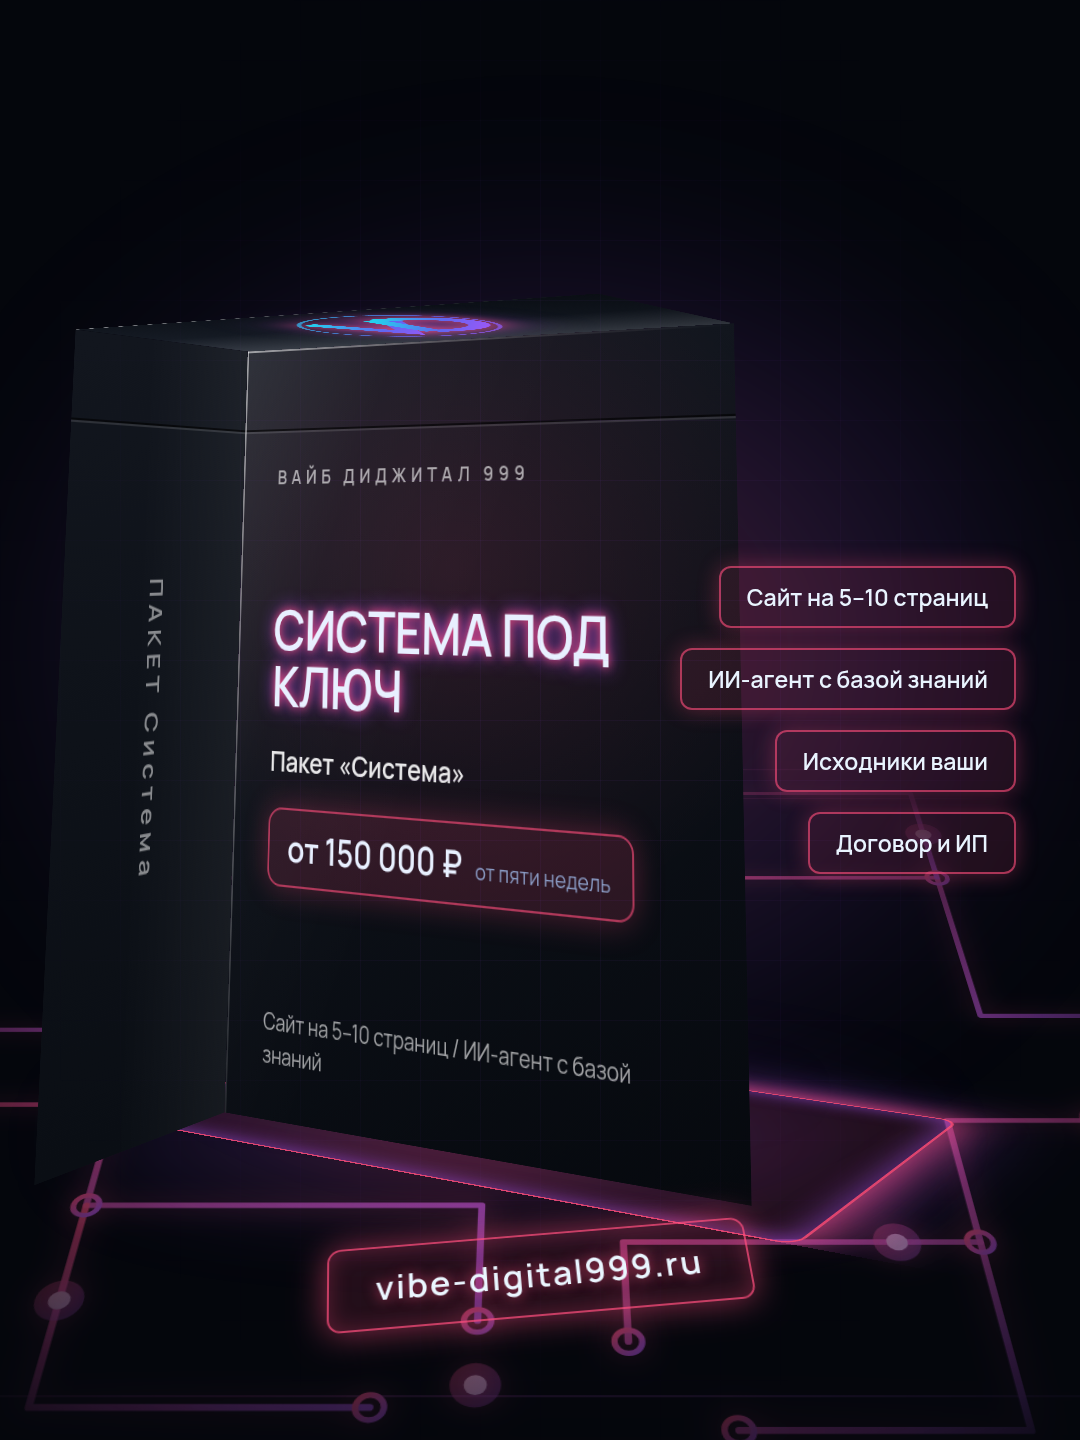
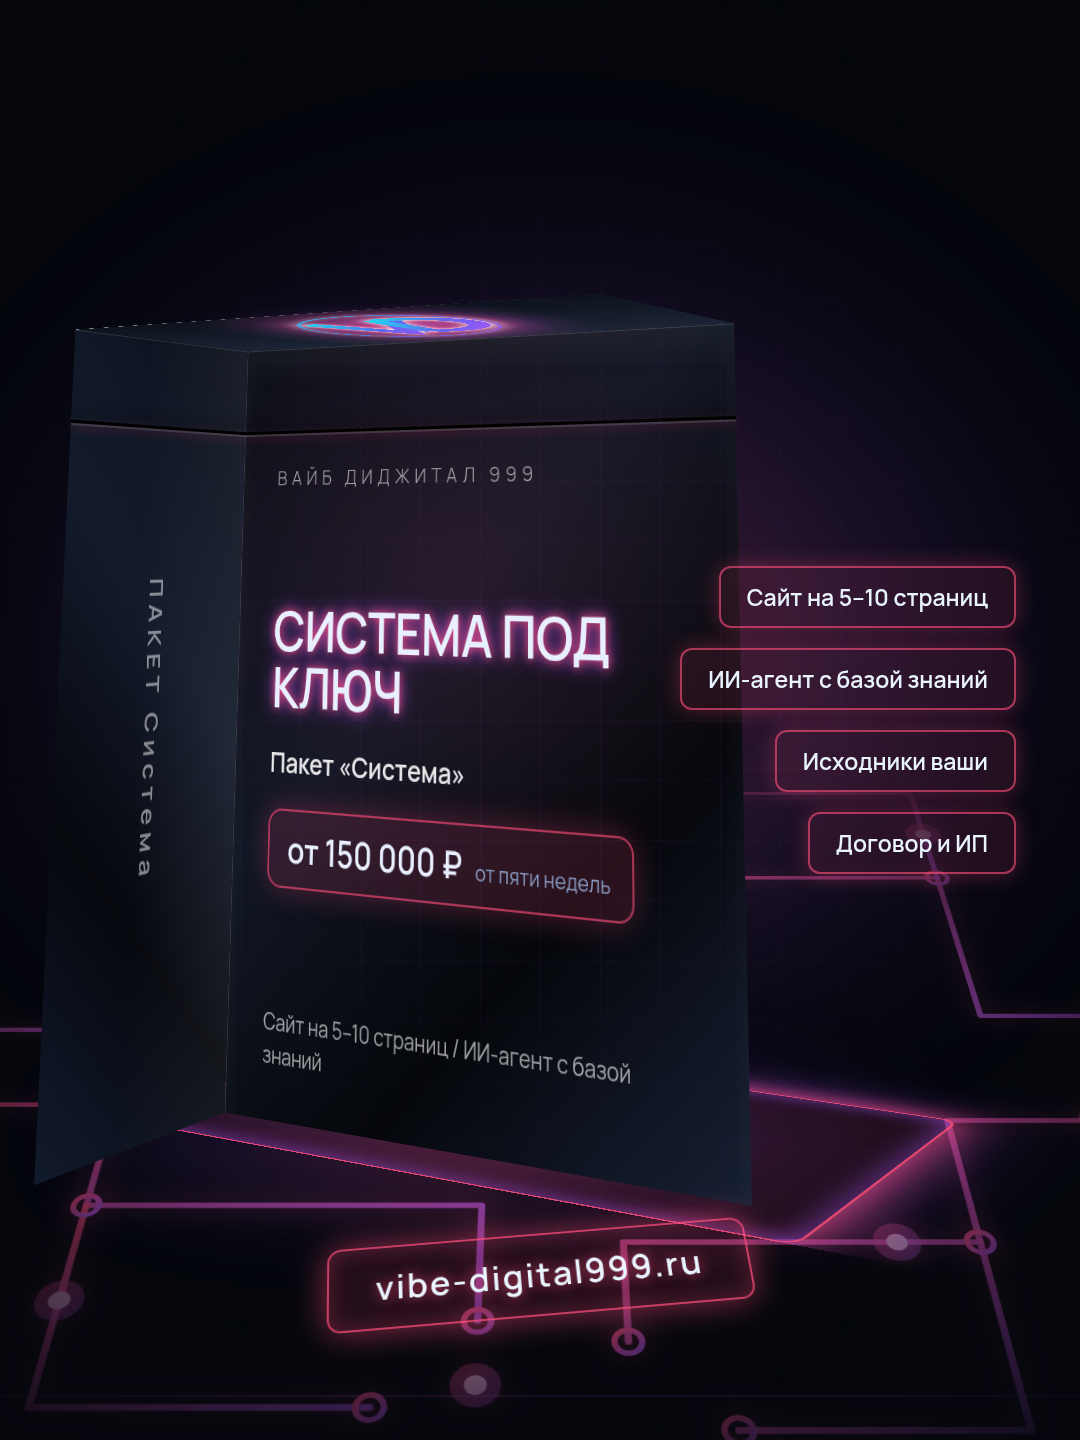
Дорогой глянец: материал, вдавленный шов, светлая крышка
Градиент в четыре остановки, шов прорезью с отсветом в пазу, крышка
светлее граней с пятном вокруг логотипа, надпись студии гравировкой.

Спор про translateZ закрыт снимками: без него крышка выступает
за край коробки козырьком, видно только на вырезе.

Claude-Session: https://claude.ai/code/session_01ELgwZhZjs3zH5Yv9y5TfEh

diff --git a/marketing/paket-korobka.js b/marketing/paket-korobka.js
@@ -238,8 +238,11 @@ ${fontCss}
     transform-style:preserve-3d;
     transform:rotateX(12deg) rotateY(-30deg)}
 
+  /* ГЛЯНЕЦ. Четыре остановки вместо двух: тёмное — светлое — тёмное —
+     светлое. Так пластик ловит отражение неоновой подсветки пола,
+     а не выглядит равномерной серой заливкой. */
   .gran{position:absolute;
-    background:linear-gradient(155deg,#161A22 0%,#0C1017 55%,#070A10 100%)}
+    background:linear-gradient(135deg,#090D16 0%,#111724 40%,#05070B 70%,#161F33 100%)}
 
   /* ШОВ ОТКИДНОГО КОЛПАКА. Тёмная прорезь и светлый блик под ней —
      так читается стык двух панелей. Рисуется фоновым градиентом,
@@ -256,31 +259,22 @@ ${fontCss}
     padding:calc(var(--shov) + 34px) 44px 44px;display:flex;flex-direction:column;
     /* Глянец: широкая мягкая полоса через грань. */
     background:
-      linear-gradient(180deg,
-        transparent 0 calc(var(--shov) - 2px),
-        rgba(0,0,0,.62) calc(var(--shov) - 2px) var(--shov),
-        rgba(255,255,255,.12) var(--shov) calc(var(--shov) + 2px),
-        transparent calc(var(--shov) + 2px)),
-      linear-gradient(112deg,
-        rgba(255,255,255,.10) 0%,
-        rgba(255,255,255,.02) 22%,
-        transparent 46%),
       radial-gradient(ellipse 110% 70% at 46% 30%,
-        color-mix(in srgb, var(--acc) 12%, transparent) 0%, transparent 62%),
-      linear-gradient(155deg,#171B24 0%,#0C1017 55%,#06090E 100%)}
+        color-mix(in srgb, var(--acc) 10%, transparent) 0%, transparent 62%),
+      linear-gradient(135deg,#090D16 0%,#111724 40%,#05070B 70%,#161F33 100%);
+    /* Блик по верхнему и левому ребру плюс мягкий свет сверху —
+       от этого грань читается монолитом, а не наклейкой. */
+    box-shadow:inset 1px 1px 0 rgba(255,255,255,.15),
+               inset 0 20px 30px rgba(255,255,255,.05)}
 
   /* Левый бок */
   .box-left{width:var(--glub);height:var(--vys);left:0;top:0;
     transform-origin:left center;
     transform:translateZ(var(--pol)) rotateY(-90deg);
     background:
-      linear-gradient(180deg,
-        transparent 0 calc(var(--shov) - 2px),
-        rgba(0,0,0,.62) calc(var(--shov) - 2px) var(--shov),
-        rgba(255,255,255,.12) var(--shov) calc(var(--shov) + 2px),
-        transparent calc(var(--shov) + 2px)),
-      linear-gradient(90deg, rgba(255,255,255,.05), transparent 60%),
-      linear-gradient(180deg,#12161E 0%,#0A0E14 100%);
+      linear-gradient(90deg, rgba(255,255,255,.06), transparent 60%),
+      linear-gradient(135deg,#0B101B 0%,#131B2B 40%,#06080E 70%,#111A2C 100%);
+    box-shadow:inset 0 1px 0 rgba(255,255,255,.12);
     display:flex;align-items:center;justify-content:center}
   /* Бок повёрнут наружу, к зрителю обращён изнанкой — надпись
      зеркалится. Гасится разворотом на 180° вокруг вертикальной оси.
@@ -294,9 +288,12 @@ ${fontCss}
   .box-top{width:var(--shir);height:var(--glub);left:0;top:0;
     transform-origin:top center;
     transform:translateZ(var(--pol)) rotateX(90deg);
+    /* Крышка ловит свет сверху, поэтому светлее остальных граней.
+       Радиальное пятно — свет от букв, падающий на пластик. */
     background:
-      linear-gradient(180deg, rgba(255,255,255,.12), transparent 55%),
-      linear-gradient(160deg,#1B212C 0%,#10151D 60%,#0A0E14 100%);
+      radial-gradient(ellipse 44% 120% at 50% 50%,
+        color-mix(in srgb, var(--acc) 26%, transparent) 0%, transparent 70%),
+      linear-gradient(180deg,#1C2536 0%,#0D121C 100%);
     display:flex;align-items:center;justify-content:center}
   /* Крышка после rotateX(90deg) обращена к зрителю обратной стороной
      плоскости: содержимое на ней переворачивается по вертикали, и «V»
@@ -306,8 +303,9 @@ ${fontCss}
   /* Крышку видно под острым углом, поэтому знак на ней сплющивается.
      Размер и свечение подняты, чтобы он читался в кадре. */
   .box-top svg{width:224px;height:224px;transform:rotateX(180deg);
-    filter:drop-shadow(0 0 18px color-mix(in srgb, var(--acc) 85%, transparent))
-           drop-shadow(0 0 34px color-mix(in srgb, var(--acc2) 60%, transparent))}
+    filter:drop-shadow(0 0 8px #fff)
+           drop-shadow(0 0 20px color-mix(in srgb, var(--acc) 95%, transparent))
+           drop-shadow(0 0 42px color-mix(in srgb, var(--acc2) 70%, transparent))}
 
   /* НЕОНОВЫЙ ПОДИУМ — это нижняя грань коробки, а не отдельный
      прямоугольник на полу. Так он лежит ровно под дном при любом
@@ -327,17 +325,19 @@ ${fontCss}
                0 0 120px color-mix(in srgb, var(--acc2) 55%, transparent),
                inset 0 0 44px color-mix(in srgb, var(--acc2) 60%, transparent)}
 
-  /* Блики на рёбрах: тонкие светлые полосы по стыкам граней.
-     Именно они читаются как глянцевый пластик. */
-  .box-front::before{content:'';position:absolute;left:0;top:0;
-    width:2px;height:100%;
-    background:linear-gradient(180deg,
-      rgba(255,255,255,.55), rgba(255,255,255,.10));
-    pointer-events:none}
-  .box-front::after{content:'';position:absolute;left:0;top:0;
-    width:100%;height:2px;
-    background:linear-gradient(90deg,
-      rgba(255,255,255,.55), rgba(255,255,255,.12) 60%, transparent);
+  /* ШОВ — вдавленная прорезь, а не белая черта. Три слоя:
+     чёрная щель, тонкая подсветка ребра под ней и внутренняя тень,
+     от которой колпак нависает над корпусом. Отсвет в пазу берётся
+     цветом карточки — как будто неон снизу отражается в щели.
+
+     Высота одна на лице и на боку: грани идут от общего верхнего
+     ребра, поэтому линия опоясывает коробку без ступеньки. */
+  .box-front::before,
+  .box-left::before{content:'';position:absolute;left:0;right:0;
+    top:var(--shov);height:3px;background:#000;
+    box-shadow:0 2px 0 rgba(255,255,255,.14),
+               0 4px 10px color-mix(in srgb, var(--acc) 30%, transparent),
+               0 -6px 12px rgba(0,0,0,.55);
     pointer-events:none}
   .box-top::after{content:'';position:absolute;left:0;bottom:0;
     width:100%;height:2px;
@@ -348,8 +348,9 @@ ${fontCss}
   /* ── Содержимое лицевой грани ─────────────────────────── */
   /* Полоса крышки: на референсе у коробки виден шов, и надпись студии
      стоит НА крышке, а не на лице. Повторяем швом поперёк лица. */
-  .marka{font-size:19px;font-weight:800;letter-spacing:.3em;
-    color:rgba(255,255,255,.62)}
+  /* Гравировка: тонкое начертание, широкий трекинг, приглушённая. */
+  .marka{font-size:20px;font-weight:300;letter-spacing:6px;
+    color:#fff;opacity:.6}
 
   .glavnoe{margin:auto 0;display:flex;flex-direction:column;gap:26px}
 

diff --git a/TASKS.md b/TASKS.md
@@ -3596,3 +3596,43 @@ GreenSock). Проверено открытием страниц, а не пои
 
 **Ждём от Гульнары:** ничего. Навык переносится в клиентский проект
 копированием папки `.claude/skills/karta-tovara-3d/`.
+
+### 13 августа, дополнение — дорогой глянец и спор про translateZ
+
+**Сделано по списку владелицы:**
+
+- [x] `      ` **Глянцевый материал.** Градиент в четыре остановки
+      вместо двух: тёмное — светлое — тёмное — светлое. Так пластик
+      ловит отражение подсветки пола, а не выглядит серой заливкой.
+- [x] `      ` **Шов стал вдавленной прорезью**, а не белой чертой:
+      чёрная щель, тонкая подсветка ребра под ней и отсвет цветом
+      карточки в пазу — как будто неон снизу отражается в щели. Сверху
+      тень, от которой колпак нависает над корпусом.
+- [x] `      ` **Крышка светлее остальных граней** — она ловит свет
+      сверху — плюс радиальное пятно вокруг логотипа: свет от букв,
+      падающий на пластик.
+- [x] `      ` **Логотип объёмный**: белое ядро свечения плюс два
+      цветных ореола.
+- [x] `      ` **Надпись студии стала гравировкой**: тонкое начертание,
+      широкий трекинг, приглушённая прозрачность.
+- [x] `      ` Блик по верхнему и левому ребру лица внутренней тенью —
+      грань читается монолитом, а не наклейкой.
+
+**Спор про `translateZ` закрыт снимком, а не словами.** Владелица
+третий раз прислала схему, где у боковой и верхней граней нет
+`translateZ`. Вместо четвёртого объяснения собрал обе версии и снял
+один и тот же угол при увеличении втрое:
+
+- **без `translateZ`** — крышка ВЫСТУПАЕТ за правый край коробки
+  торчащим козырьком: лицо стоит на `+40`, а крышка и бок от нуля,
+  и разница в полглубины видна как отогнутая пластина;
+- **с `translateZ`** — крышка вровень с гранью, угол чистый.
+
+Снимки приложены владелице. **Приём общий: когда правка предлагается
+третий раз, дешевле показать разницу, чем объяснить её ещё раз.**
+Полминуты на два снимка против третьего круга переписки.
+
+**Отдельно, честная поправка к себе.** Раньше я записал, что без
+`translateZ` «грань висит в стороне». Точнее так: силуэт закрывается,
+и на общем плане версия выглядит правдоподобно — вылезает именно
+козырёк крышки, и виден он только на вырезе. Поправка внесена в навык.
